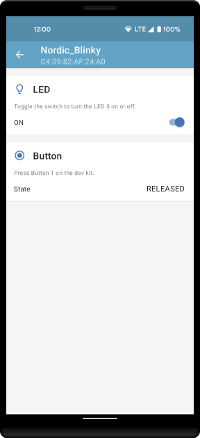
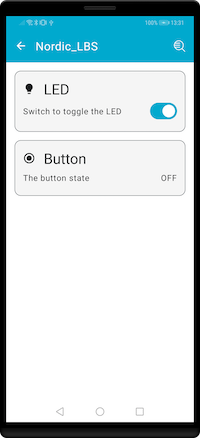
Readme updated

Changed region(s): [[0.03, 0.0297, 0.99, 0.4452], [0.03, 0.9201, 0.99, 0.9795]]

diff --git a/README.md b/README.md
@@ -1,34 +1,36 @@
-# nRF BLINKY
+# nRF Blinky for Android
 
-nRF Blinky is an application developed targeting an audience of developers who are new to 
+nRF Blinky is an application targeting an audience of developers who are new to 
 Bluetooth Low Energy. 
 
-This is a very simple application with two basic features to turn on LED 3 
-on the nRF DK and to receive the Button 1 press event from a nRF DK on the nRF Blinky Application.
+This is a very simple application with two basic features:
+* turning on a LED 
+* receiving a Button press and release events.
 
 ![Scanner](images/scanner.png) ![Blinky](images/blinky.png)
 
-It demonstrates how to the **BleManager** class from 
+It demonstrates how the `BleManager` class from 
 [Android BLE Library](https://github.com/NordicSemiconductor/Android-BLE-Library/) 
-library can be used from View Model 
+library can be used from a View Model 
 (see [Architecture Components](https://developer.android.com/topic/libraries/architecture/index.html)).
 
-## Nordic LED and Button Service
+## Nordic LED and Button Service (LBS)
 
 Service UUID: `00001523-1212-EFDE-1523-785FEABCD123`
 
-A simplified proprietary service by Nordic Semiconductor, containing two characteristics one to 
-control LED 3 and Button 1:
+A simplified proprietary service by Nordic Semiconductor, containing two characteristics:
 
-- First characteristic controls the LED state (On/Off).
+- LED state (On/Off).
   - UUID: **`00001525-1212-EFDE-1523-785FEABCD123`**
-  - Value: **`1`** => LED On
-  - Value: **`0`** => LED Off
+  - Properties: **Write** or **Write Without Response**
+    - Value: **`0x01`** => LED On
+    - Value: **`0x00`** => LED Off
 
-- Second characteristic notifies central of the button state on change (Pressed/Released).
+- Button state (Pressed/Released).
   - UUID: **`00001524-1212-EFDE-1523-785FEABCD123`**
-  - Value: **`1`** => Button Pressed
-  - Value: **`0`** => Button Released
+  - Properties: **Notify**
+    - Value: **`0x01`** => Button Pressed
+    - Value: **`0x00`** => Button Released
   
 For documentation for nRF5 SDK, check out 
 [this link](https://infocenter.nordicsemi.com/topic/sdk_nrf5_v17.1.0/ble_sdk_app_blinky.html?cp=8_1_4_2_2_3)
@@ -39,12 +41,12 @@ and for one based on nRF Connect SDK
 
 * This application depends on [Android BLE Library](https://github.com/NordicSemiconductor/Android-BLE-Library/).
 * Android 4.3 or newer is required.
-* Any nRF5 DK is required in order to test the BLE Blinky service. The service can also be emulated
-using nRF Connect for Android, iOS or Desktop.
+* Any nRF5 DK or another device is required in order to test the BLE Blinky service. The service 
+  can also be emulated using nRF Connect for Android, iOS or Desktop.
 
 ## Installation and usage
 
-Flash your device with LED Button sample from nRF5 SDK or nRF Connect SDK.
+Program your device with LED Button sample from nRF5 SDK (blinky sample) or nRF Connect SDK (LBS sample).
 
 The device should appear on the scanner screen after granting required permissions.
 
